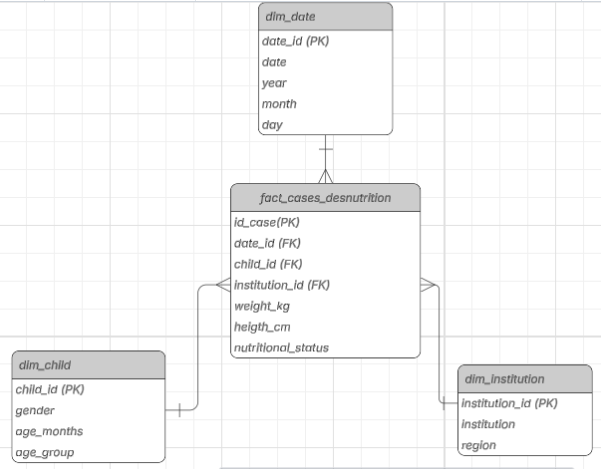
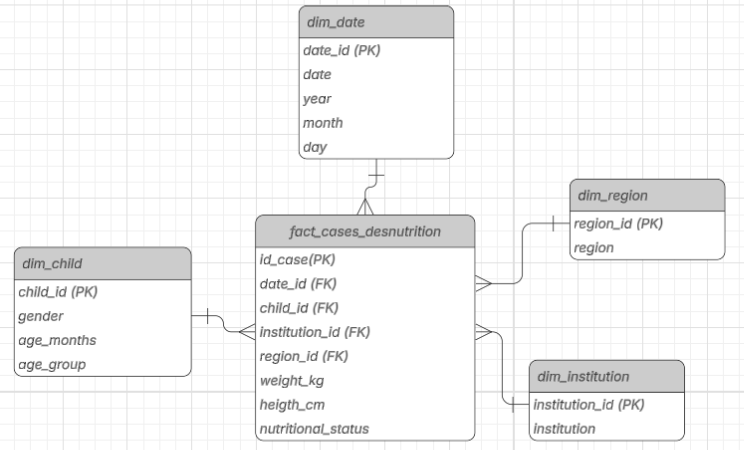
Actualizacion con dim_region

diff --git a/README.md b/README.md
@@ -61,7 +61,13 @@ Describe las características del niño o niña evaluado. Se crea como dimensió
 
 ### Dimensión — `dim_institution`
 
-Describe el centro de atención médica donde se realizó la evaluación. Incluye el atributo `region` directamente, lo que elimina la necesidad de una dimensión geográfica adicional: en este dataset cada institución pertenece a una única región (relación 1 a 1), por lo que crear una `dim_region` separada introduciría redundancia sin aportar flexibilidad analítica.
+Describe el centro de atención médica donde se realizó la evaluación.
+
+---
+
+### Dimensión — `dim_region`
+
+Describe la región geográfica donde fue atendido cada caso.
 
 ---
 
@@ -107,19 +113,30 @@ CREATE TABLE dim_child (
 
 CREATE TABLE dim_institution (
     institution_id  SERIAL        PRIMARY KEY,
-    institution     VARCHAR(100)  NOT NULL UNIQUE,
-    region          VARCHAR(50)   NOT NULL
+    institution     VARCHAR(100)  NOT NULL UNIQUE
+);
+
+CREATE TABLE dim_region (
+    region_id  SERIAL       PRIMARY KEY,
+    region     VARCHAR(50)  NOT NULL UNIQUE
 );
 
 CREATE TABLE fact_cases_desnutrition (
-    id_case            SERIAL        PRIMARY KEY,
-    date_id            INT           NOT NULL REFERENCES dim_date(date_id),
-    child_id           VARCHAR(10)   NOT NULL REFERENCES dim_child(child_id),
-    institution_id     INT           NOT NULL REFERENCES dim_institution(institution_id),
-    weight_kg          NUMERIC(5,2)  NOT NULL CHECK (weight_kg > 0),
-    height_cm          NUMERIC(5,1)  NOT NULL CHECK (height_cm > 0),
-    nutritional_status VARCHAR(20)   NOT NULL
-                       CHECK (nutritional_status IN ('Aguda','Cronica','Global'))
+    id_case            SERIAL         PRIMARY KEY,
+    date_id            INT            NOT NULL
+                                      REFERENCES dim_date(date_id),
+    child_id           VARCHAR(10)    NOT NULL
+                                      REFERENCES dim_child(child_id),
+    region_id		   INT            NOT NULL 
+    								  REFERENCES dim_region(region_id),
+    institution_id     INT            NOT NULL
+                                      REFERENCES dim_institution(institution_id),
+    weight_kg          NUMERIC(5,2)   NOT NULL  CHECK (weight_kg > 0),
+    height_cm          NUMERIC(5,1)   NOT NULL  CHECK (height_cm > 0),
+    nutritional_status VARCHAR(20)    NOT NULL
+                                      CHECK (nutritional_status IN (
+                                          'Aguda','Cronica','Global'
+                                      ))
 );
 ```
 
